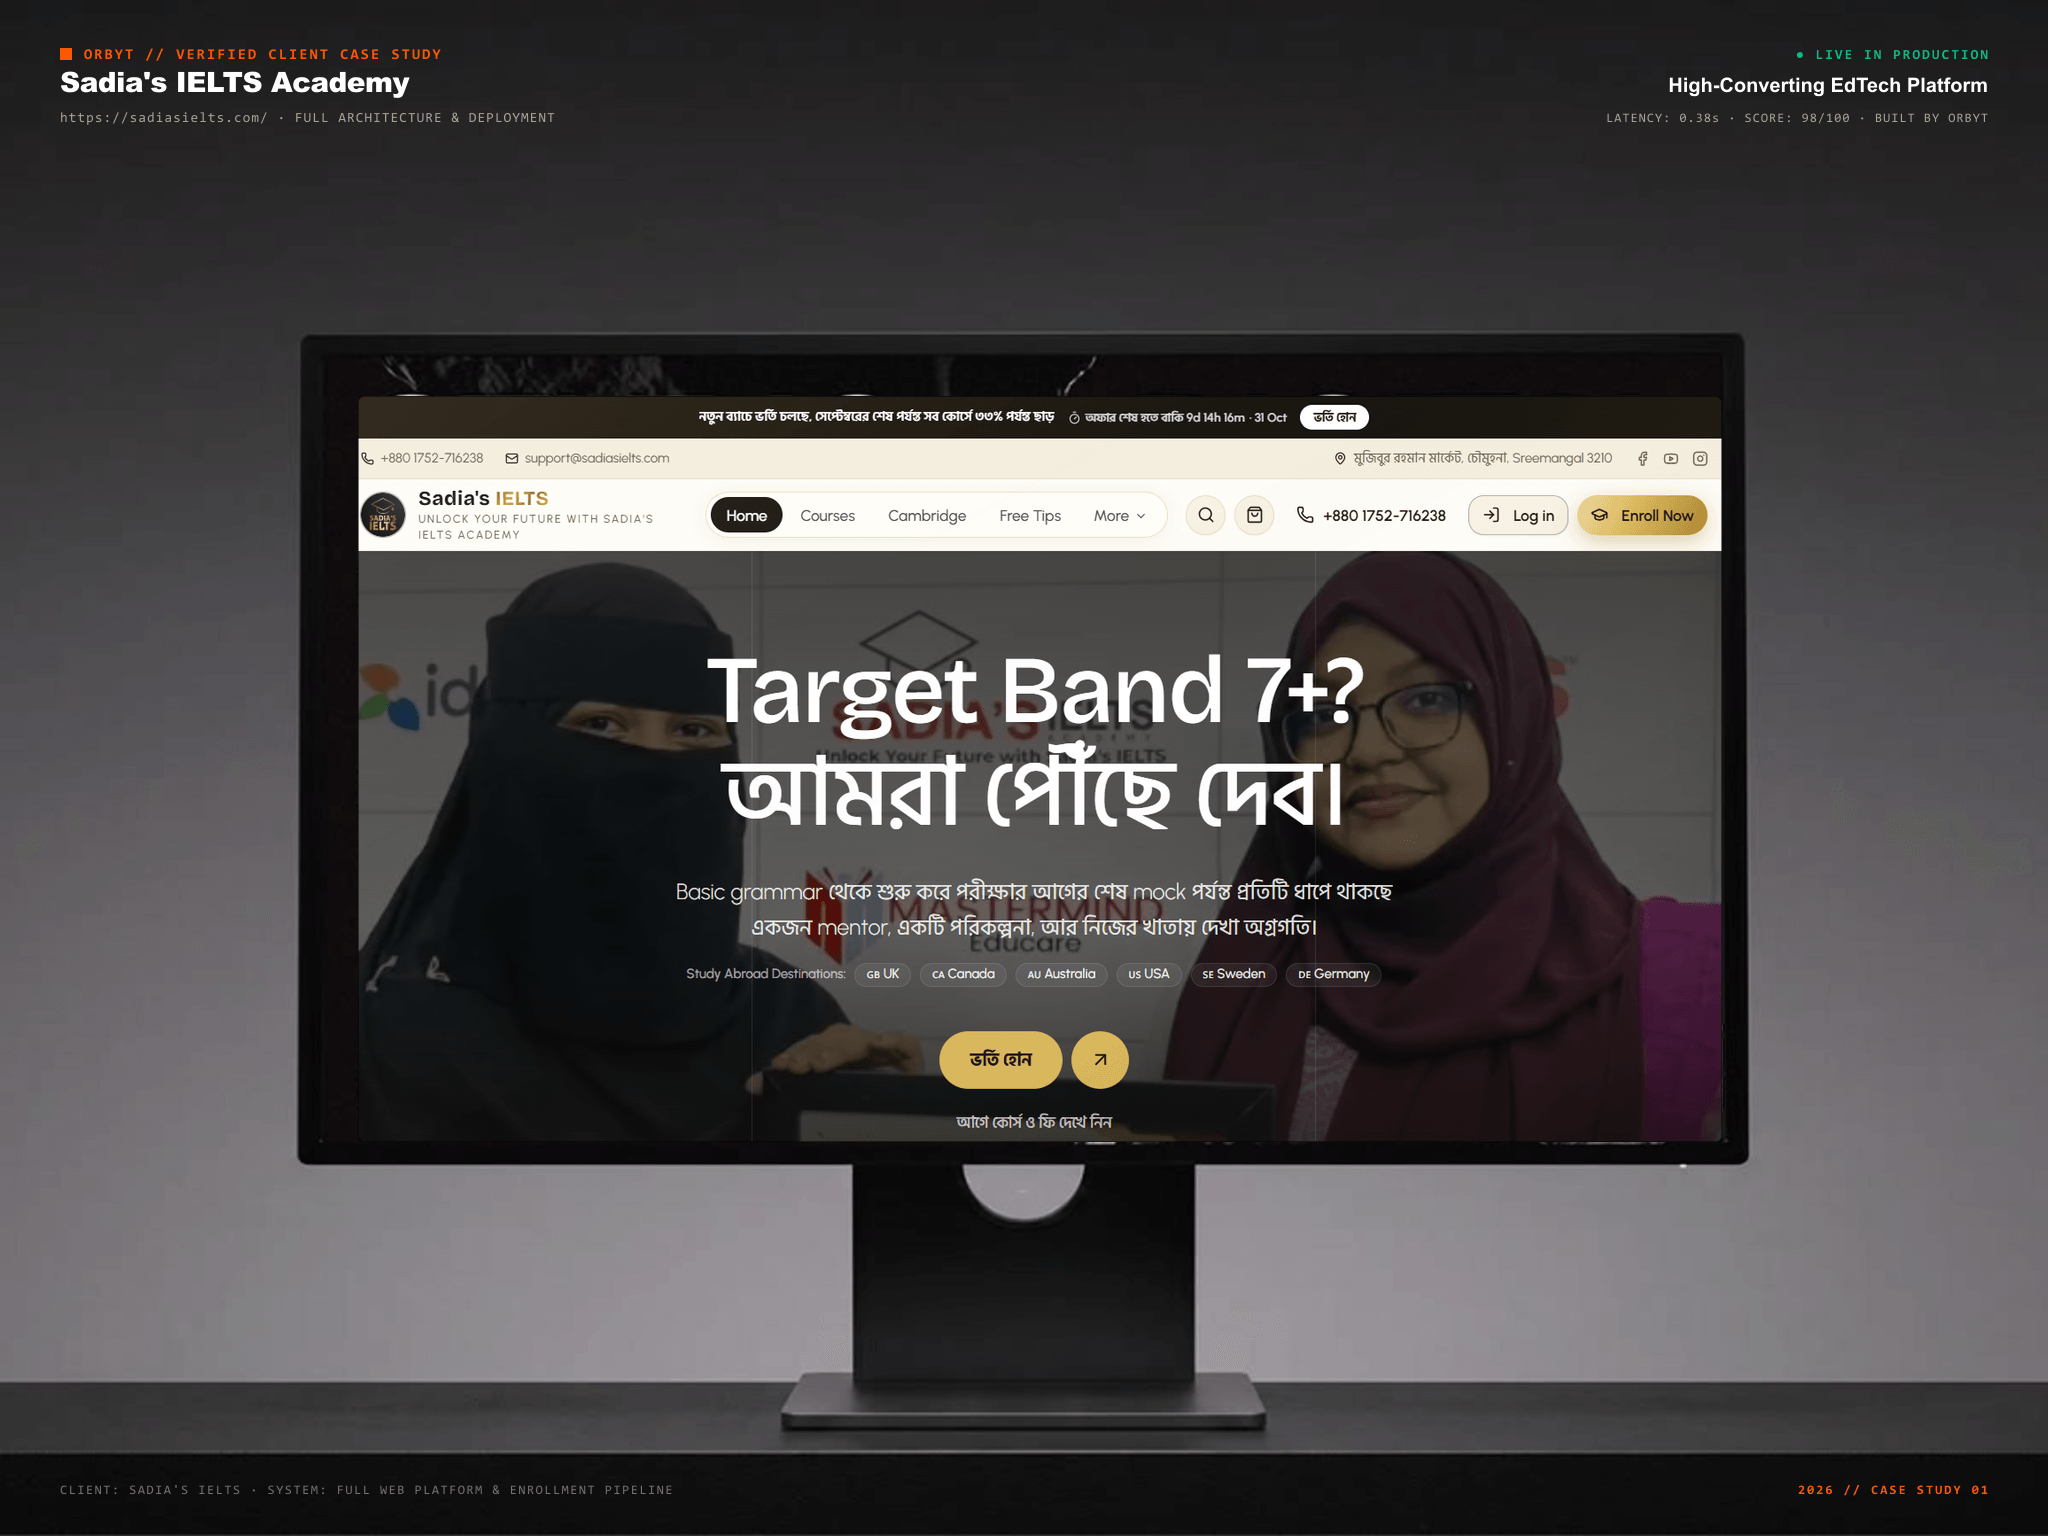
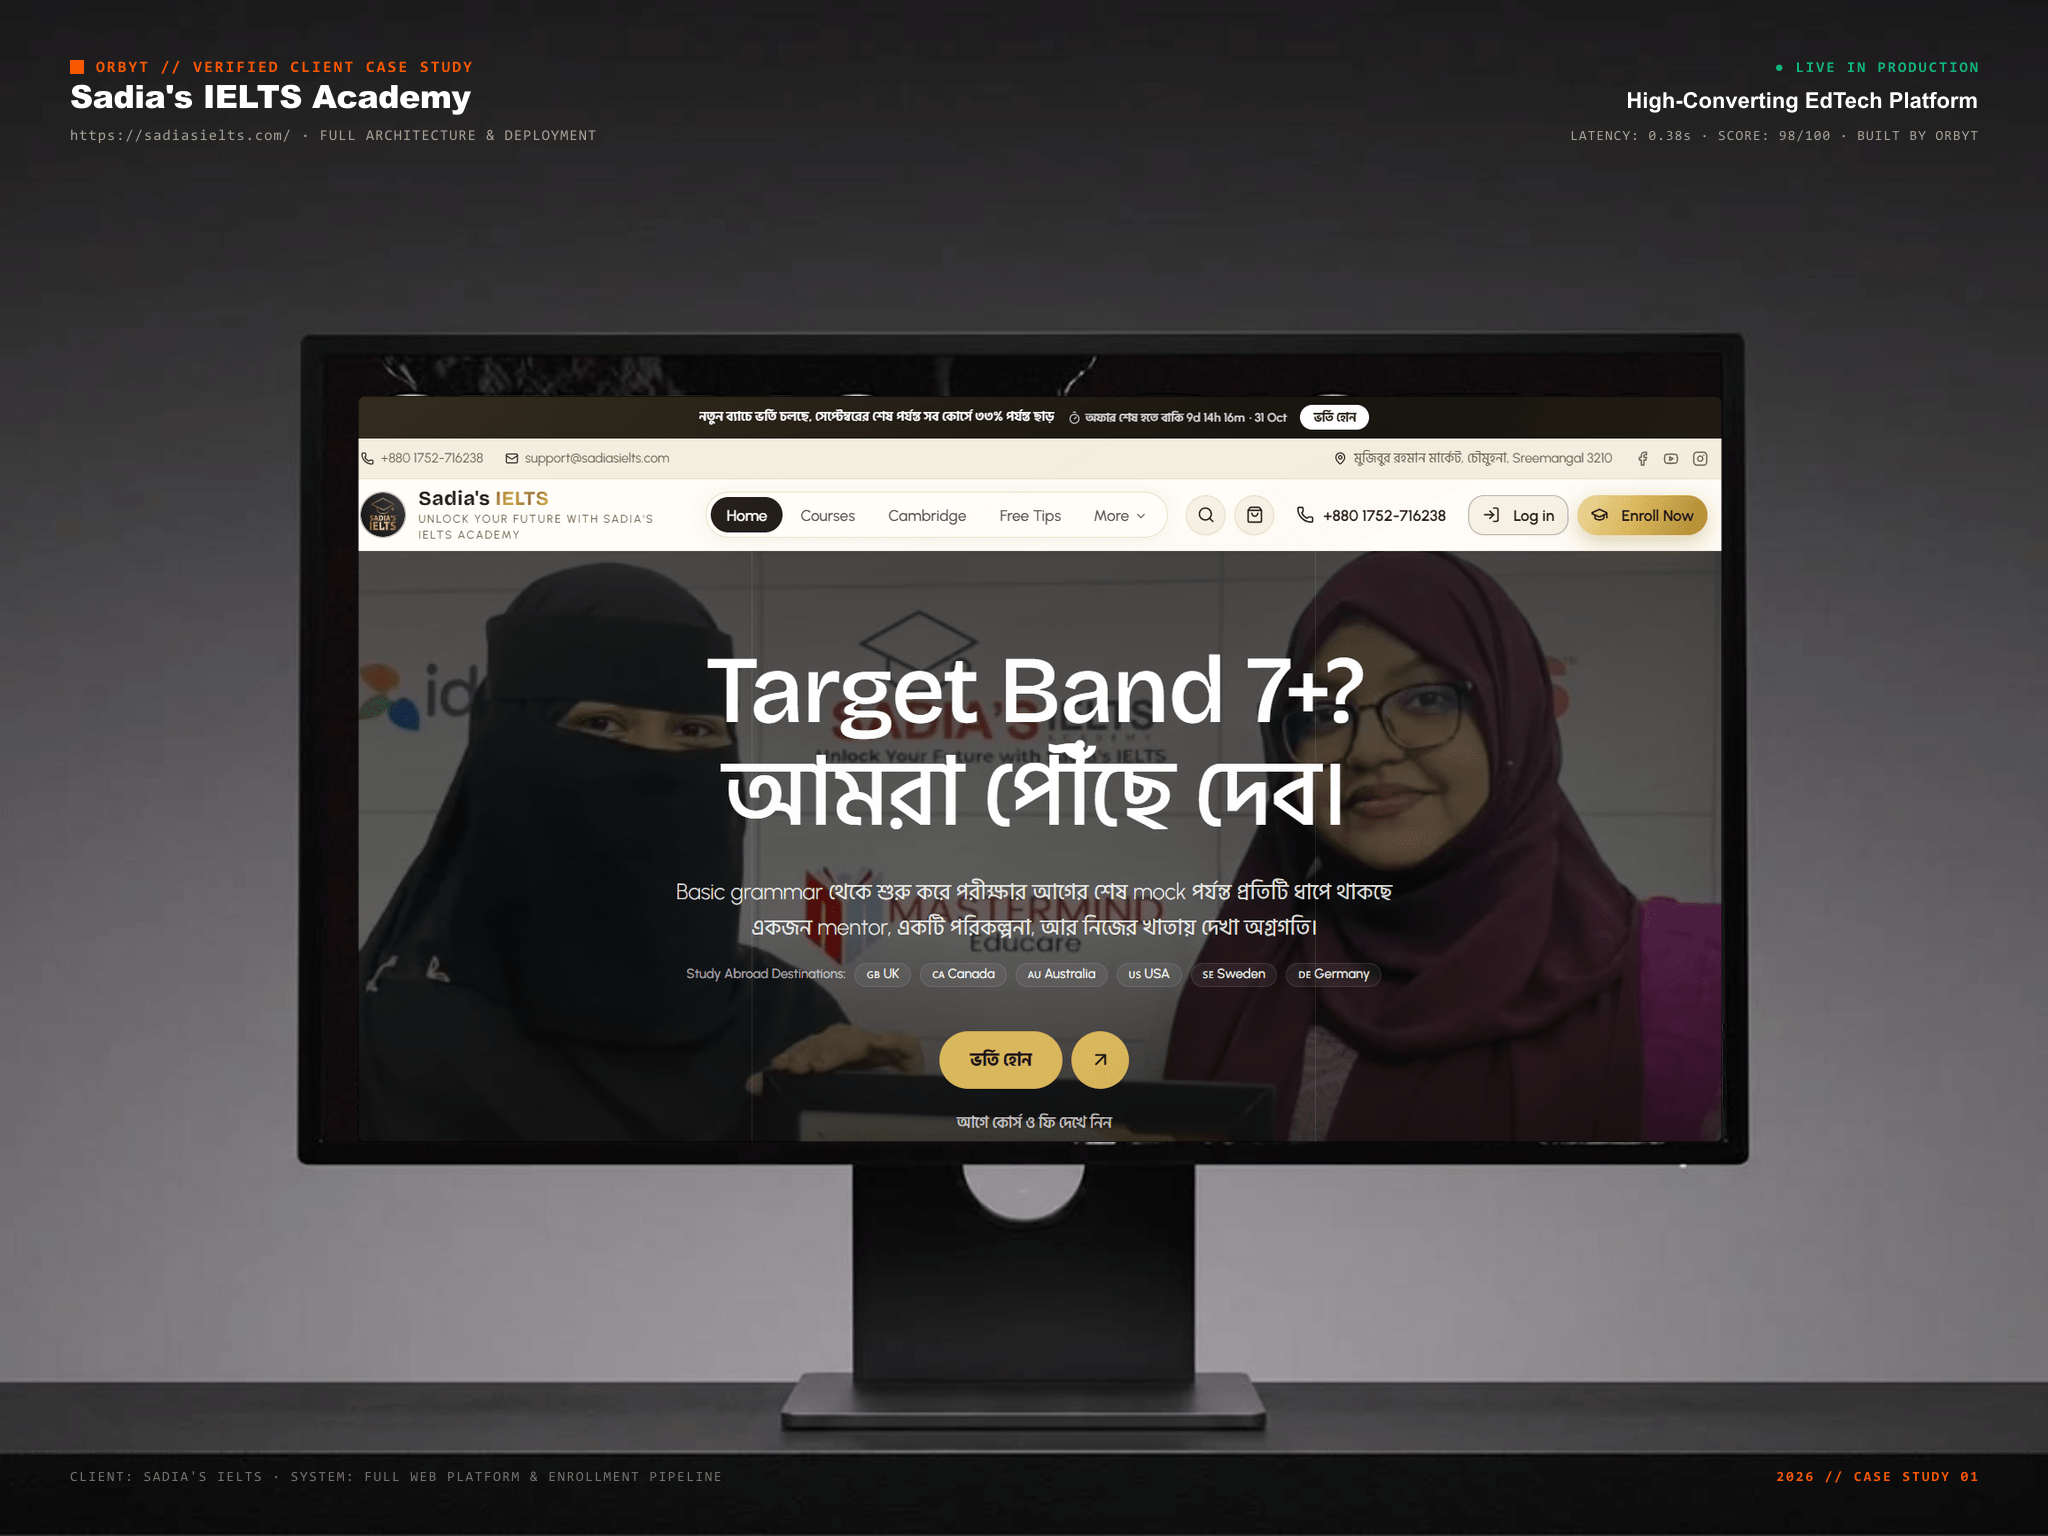
feat(showcase): prominently feature Sadia's IELTS monitor mockup across hero and homepage

Changed region(s): [[0.0312, 0.0312, 0.2812, 0.0938], [0.7812, 0.0312, 0.9688, 0.0938]]

diff --git a/scripts/composite-sadias-ielts.js b/scripts/composite-sadias-ielts.js
@@ -68,28 +68,28 @@ async function composite() {
     .png()
     .toBuffer();
 
-  // ORBYT Agency Studio Case Study Branding Overlays
+  // ORBYT Agency Studio Case Study Branding Overlays with generous safe margins
   const brandingSvg = `
   <svg width="${W}" height="${H}" xmlns="http://www.w3.org/2000/svg">
     <!-- Top-left ORBYT Agency Case Study Tag -->
-    <g transform="translate(60, 48)">
-      <rect x="0" y="0" width="12" height="12" fill="#fd5a01"/>
-      <text x="24" y="11" fill="#fd5a01" font-family="Consolas, monospace" font-size="15" font-weight="bold" letter-spacing="2">ORBYT // VERIFIED CLIENT CASE STUDY</text>
-      <text x="0" y="44" fill="#ffffff" font-family="Arial, Helvetica, sans-serif" font-size="28" font-weight="900" letter-spacing="-0.5">Sadia's IELTS Academy</text>
-      <text x="0" y="74" fill="#a8a096" font-family="Consolas, monospace" font-size="14" letter-spacing="1">https://sadiasielts.com/ · FULL ARCHITECTURE &amp; DEPLOYMENT</text>
+    <g transform="translate(70, 60)">
+      <rect x="0" y="0" width="14" height="14" fill="#fd5a01"/>
+      <text x="26" y="12" fill="#fd5a01" font-family="Consolas, monospace" font-size="16" font-weight="bold" letter-spacing="2">ORBYT // VERIFIED CLIENT CASE STUDY</text>
+      <text x="0" y="48" fill="#ffffff" font-family="Arial, Helvetica, sans-serif" font-size="32" font-weight="900" letter-spacing="-0.5">Sadia's IELTS Academy</text>
+      <text x="0" y="80" fill="#a8a096" font-family="Consolas, monospace" font-size="15" letter-spacing="1">https://sadiasielts.com/ · FULL ARCHITECTURE &amp; DEPLOYMENT</text>
     </g>
 
     <!-- Top-right Performance Telemetry -->
-    <g transform="translate(${W - 60}, 48)">
-      <text x="0" y="11" fill="#10b981" font-family="Consolas, monospace" font-size="14" font-weight="bold" text-anchor="end" letter-spacing="2">● LIVE IN PRODUCTION</text>
-      <text x="0" y="44" fill="#ffffff" font-family="Arial, Helvetica, sans-serif" font-size="20" font-weight="bold" text-anchor="end">High-Converting EdTech Platform</text>
-      <text x="0" y="74" fill="#a8a096" font-family="Consolas, monospace" font-size="13" text-anchor="end" letter-spacing="1">LATENCY: 0.38s · SCORE: 98/100 · BUILT BY ORBYT</text>
+    <g transform="translate(${W - 70}, 60)">
+      <text x="0" y="12" fill="#10b981" font-family="Consolas, monospace" font-size="15" font-weight="bold" text-anchor="end" letter-spacing="2">● LIVE IN PRODUCTION</text>
+      <text x="0" y="48" fill="#ffffff" font-family="Arial, Helvetica, sans-serif" font-size="22" font-weight="bold" text-anchor="end">High-Converting EdTech Platform</text>
+      <text x="0" y="80" fill="#a8a096" font-family="Consolas, monospace" font-size="14" text-anchor="end" letter-spacing="1">LATENCY: 0.38s · SCORE: 98/100 · BUILT BY ORBYT</text>
     </g>
 
     <!-- Bottom Metadata Bar -->
-    <g transform="translate(60, ${H - 42})">
-      <text x="0" y="0" fill="#78716c" font-family="Consolas, monospace" font-size="13" letter-spacing="1.5">CLIENT: SADIA'S IELTS · SYSTEM: FULL WEB PLATFORM &amp; ENROLLMENT PIPELINE</text>
-      <text x="${W - 120}" y="0" fill="#fd5a01" font-family="Consolas, monospace" font-size="13" font-weight="bold" text-anchor="end" letter-spacing="2">2026 // CASE STUDY 01</text>
+    <g transform="translate(70, ${H - 55})">
+      <text x="0" y="0" fill="#78716c" font-family="Consolas, monospace" font-size="14" letter-spacing="1.5">CLIENT: SADIA'S IELTS · SYSTEM: FULL WEB PLATFORM &amp; ENROLLMENT PIPELINE</text>
+      <text x="${W - 140}" y="0" fill="#fd5a01" font-family="Consolas, monospace" font-size="14" font-weight="bold" text-anchor="end" letter-spacing="2">2026 // CASE STUDY 01</text>
     </g>
   </svg>
   `;
@@ -105,7 +105,6 @@ async function composite() {
     .toBuffer();
 
   await sharp(finalImage).toFile('public/images/art/sadias-ielts-showcase.png');
-  // Also save a WebP version for maximum speed and compatibility
   await sharp(finalImage).webp({ quality: 92 }).toFile('public/images/art/sadias-ielts-showcase.webp');
 
   console.log('✓ Successfully created public/images/art/sadias-ielts-showcase.png & .webp');

diff --git a/src/components/orbyt/views/home-view.tsx b/src/components/orbyt/views/home-view.tsx
@@ -44,13 +44,13 @@ export function HomeView() {
       <BootSequence />
       <Hero />
       <WorkedWith />
+      <SystemsTeaser />
       <ShowcaseGallery />
       <GiantMarquee />
       <ManifestoWall />
       <ProblemTeaser />
       <ServicesOverview />
       <ProcessStrip />
-      <SystemsTeaser />
       <TeamSection />
       <PrinciplesSection />
       <InsightsTeaser />
@@ -204,8 +204,8 @@ function SystemsTeaser() {
           <div className="grid grid-cols-1 items-center lg:grid-cols-12">
             <div className="p-6 md:p-10 lg:col-span-5">
               <div className="flex items-center gap-2">
-                <span className="size-2 animate-pulse bg-emerald-500" />
-                <p className="font-mono text-xs uppercase tracking-[0.18em] text-primary">
+                <span className="size-2.5 animate-pulse rounded-full bg-emerald-500" />
+                <p className="font-mono text-xs font-bold uppercase tracking-[0.18em] text-primary">
                   VERIFIED CLIENT CASE STUDY
                 </p>
               </div>
@@ -215,7 +215,18 @@ function SystemsTeaser() {
               <p className="mt-2 text-sm leading-relaxed text-muted-foreground">
                 {FEATURED_CASE_STUDY.tagline}
               </p>
-              <div className="mt-4 flex flex-wrap gap-2">
+
+              {/* Delivered architecture badges */}
+              <div className="mt-5 space-y-2">
+                {FEATURED_CASE_STUDY.components.slice(0, 3).map((comp) => (
+                  <div key={comp} className="flex items-center gap-2 text-xs text-foreground/85">
+                    <span className="size-1.5 shrink-0 bg-primary" />
+                    <span>{comp}</span>
+                  </div>
+                ))}
+              </div>
+
+              <div className="mt-5 flex flex-wrap gap-2">
                 {FEATURED_CASE_STUDY.measured.slice(0, 3).map((m) => (
                   <span
                     key={m}
@@ -225,6 +236,7 @@ function SystemsTeaser() {
                   </span>
                 ))}
               </div>
+
               <div className="mt-6 flex flex-wrap items-center gap-4">
                 <Button asChild className="h-10 px-5 text-sm font-semibold">
                   <Link href="/work">
@@ -243,14 +255,16 @@ function SystemsTeaser() {
                 </a>
               </div>
             </div>
-            <div className="relative aspect-[16/10] w-full min-h-[280px] overflow-hidden border-t border-border bg-stone-950 lg:col-span-7 lg:border-l lg:border-t-0">
+
+            {/* 4:3 Studio Mockup Poster Frame - 0% Cropping, 100% Crisp */}
+            <div className="relative aspect-[4/3] w-full overflow-hidden border-t border-border bg-stone-950 lg:col-span-7 lg:border-l lg:border-t-0">
               <Image
                 src={FEATURED_CASE_STUDY.image}
                 alt="Sadia's IELTS Academy live platform mockup"
                 fill
                 priority
                 unoptimized
-                sizes="(min-width: 1024px) 680px, 100vw"
+                sizes="(min-width: 1024px) 720px, 100vw"
                 className="object-cover"
               />
             </div>

diff --git a/src/components/orbyt/hero.tsx b/src/components/orbyt/hero.tsx
@@ -54,9 +54,19 @@ export function Hero() {
           {/* Copy */}
           <div className="min-w-0 lg:col-span-7">
             <FadeUp>
-              <p className="font-mono text-xs uppercase tracking-[0.18em] text-primary">
-                <Scramble text={HERO.eyebrow} speed={22} />
-              </p>
+              <div className="flex flex-wrap items-center gap-3">
+                <p className="font-mono text-xs uppercase tracking-[0.18em] text-primary">
+                  <Scramble text={HERO.eyebrow} speed={22} />
+                </p>
+                <Link
+                  href="/work"
+                  className="inline-flex items-center gap-1.5 rounded-full border border-primary/30 bg-primary/10 px-2.5 py-0.5 font-mono text-[10px] uppercase tracking-[0.16em] text-primary transition-colors hover:border-primary/60 hover:bg-primary/20"
+                >
+                  <span className="size-1.5 rounded-full bg-emerald-500 animate-pulse" />
+                  Latest Work: Sadia's IELTS
+                  <ArrowRight className="size-3" />
+                </Link>
+              </div>
             </FadeUp>
 
             {/* Masked line reveal */}

diff --git a/src/components/orbyt/views/work-view.tsx b/src/components/orbyt/views/work-view.tsx
@@ -141,7 +141,7 @@ export function WorkView() {
 
               {/* Studio Mockup Poster Frame */}
               <div className="min-w-0 lg:col-span-7">
-                <div className="relative aspect-[16/10] w-full min-h-[320px] overflow-hidden border border-border bg-stone-950 shadow-pixel-orange">
+                <div className="relative aspect-[4/3] w-full overflow-hidden border border-border bg-stone-950 shadow-pixel-orange">
                   <Image
                     src={FEATURED_CASE_STUDY.image}
                     alt="Sadia's IELTS Academy live homepage displayed inside a studio monitor mockup"
